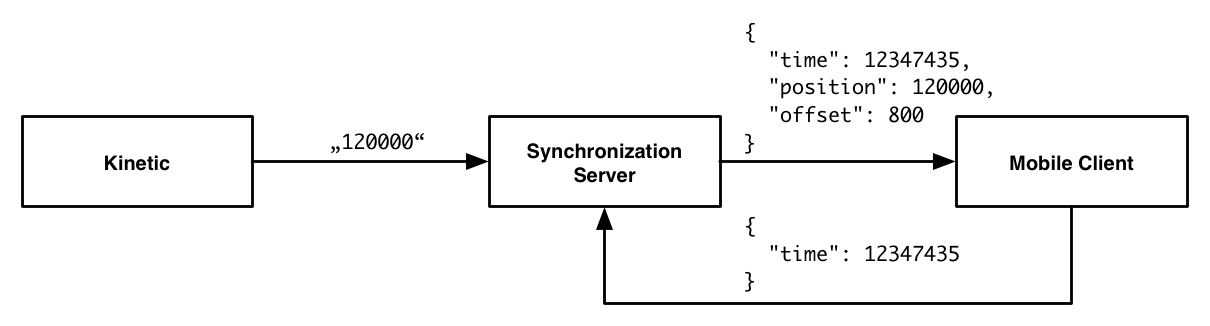
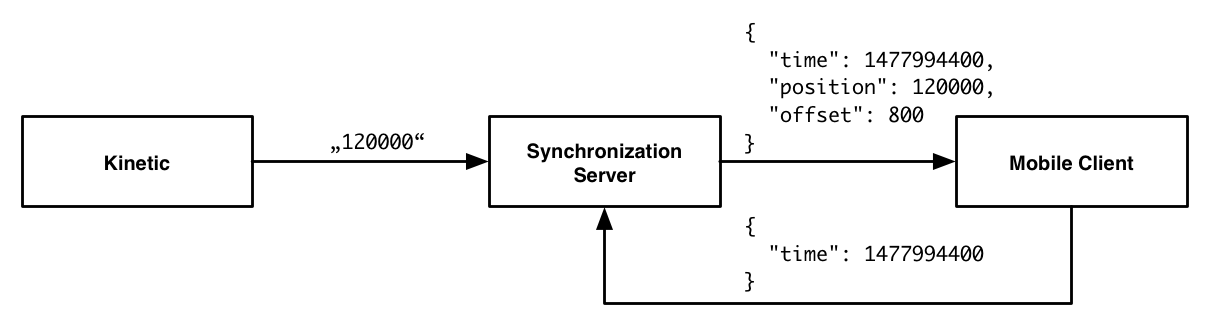
Update diagram in changi post.

Changed region(s): [[0.7033, 0.1534, 0.8256, 0.2147], [0.7033, 0.7362, 0.8256, 0.7975]]

diff --git a/_drafts/changi_petal_clouds_mobile_sound.md b/_drafts/changi_petal_clouds_mobile_sound.md
@@ -40,7 +40,7 @@ To eliminate jitter at least a bit the server sends a `sync` message to the clie
 
 ```json
 {
-  "time": 12347435,
+  "time": 1477994400,
   "position": 120000,
   "offset": 800
 }
@@ -54,7 +54,7 @@ The client immediately acknowledges the message by returning the `time` value:
 
 ```json
 {
-  "time": 12347435
+  "time": 1477994400
 }
 ```
 
